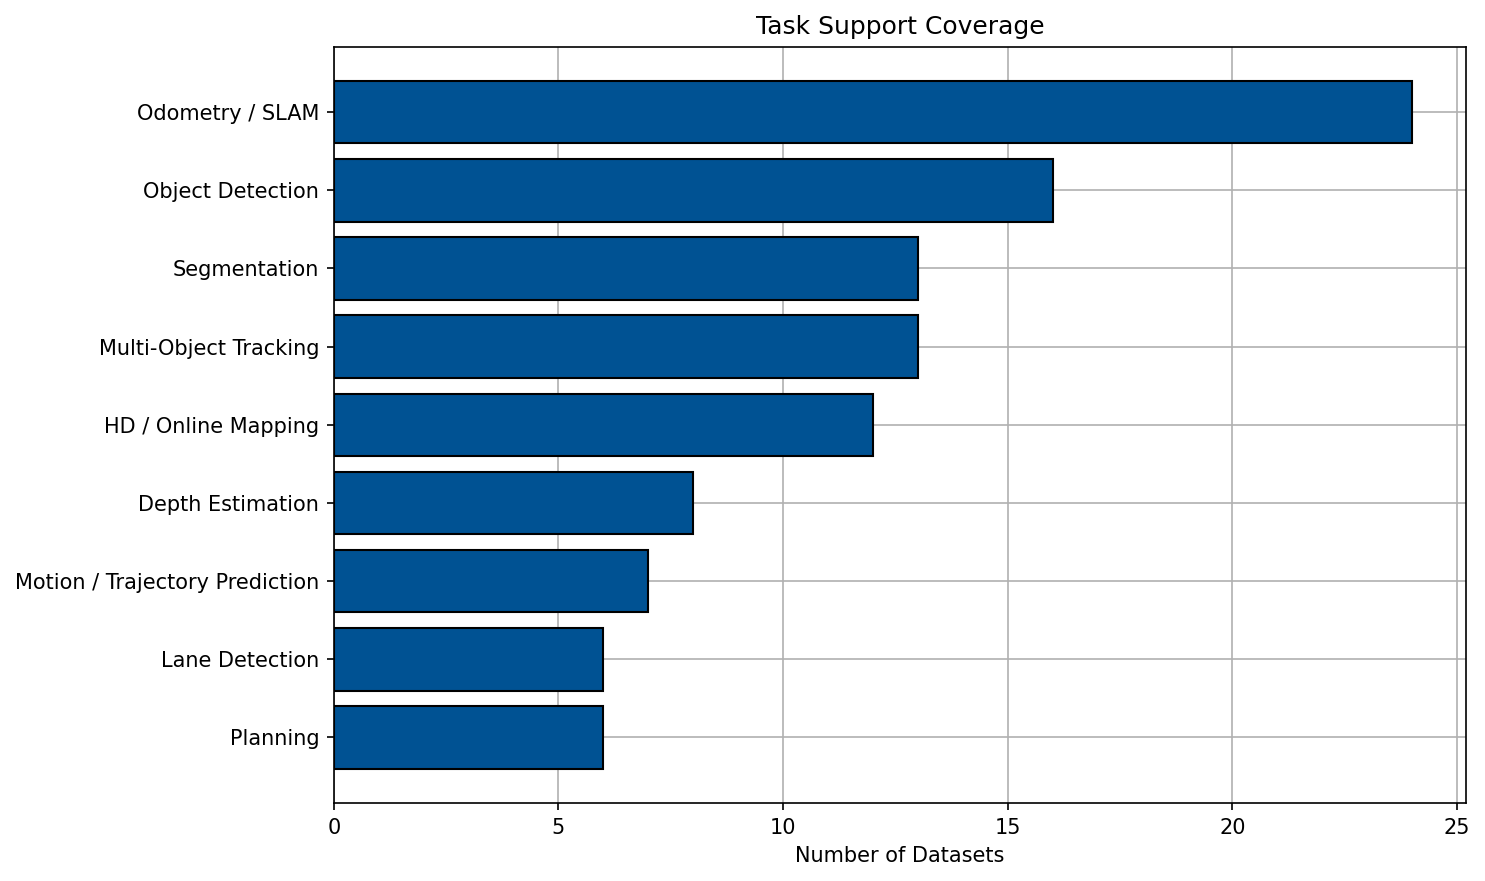
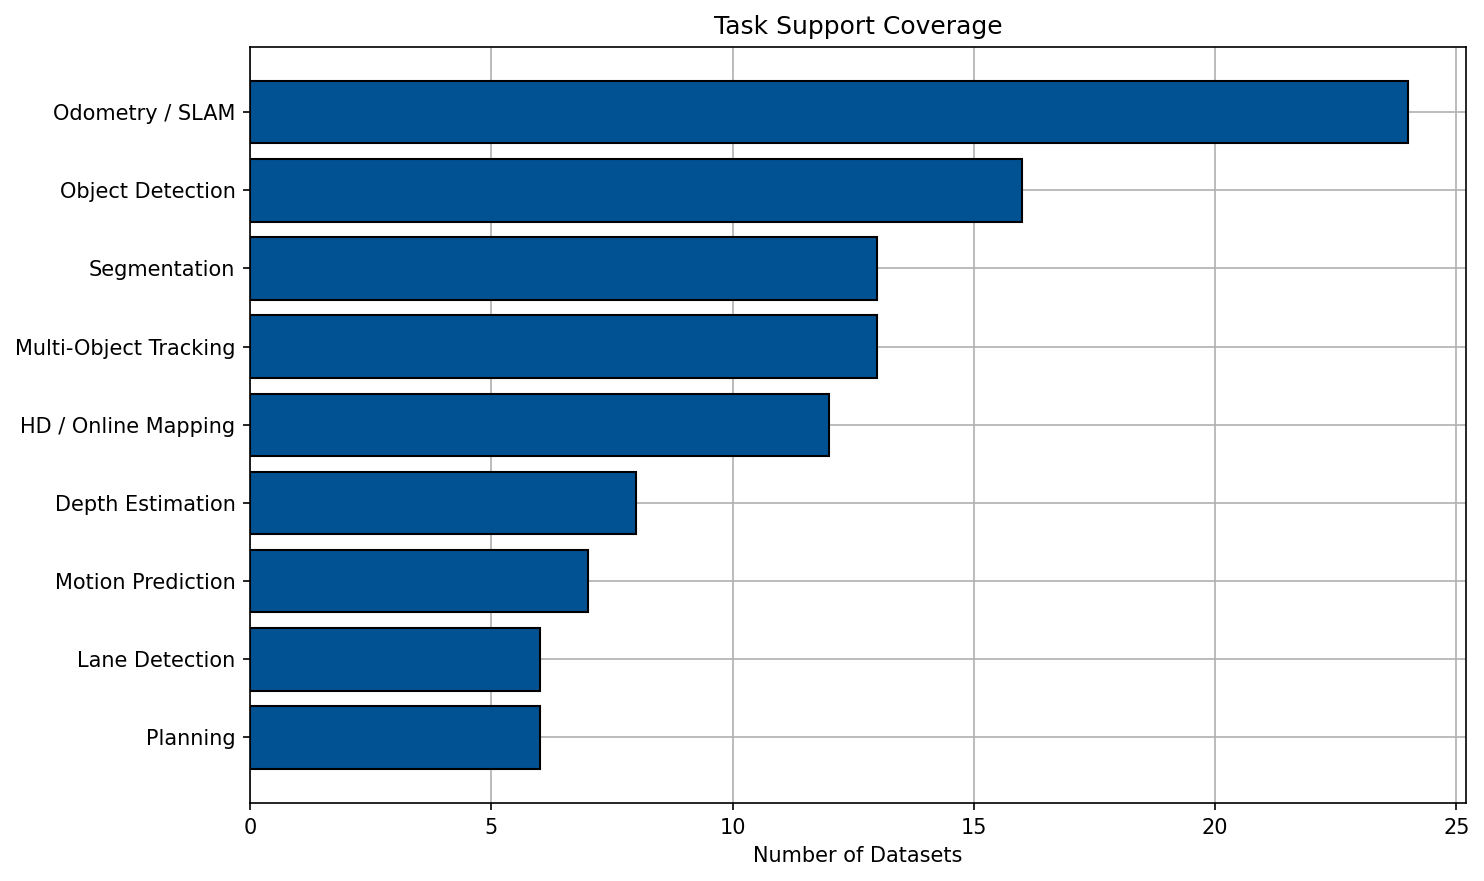
Updated code

diff --git a/dataset/filtered_dataset_analysis/00_cleaning_filtered_dataset.py b/dataset/filtered_dataset_analysis/00_cleaning_filtered_dataset.py
@@ -8,14 +8,22 @@ OUTPUT_FILE = os.path.join(BASE_DIR, 'filtered_dataset_cleaned.csv')
 # ── Load ──────────────────────────────────────────────────────────────────────
 df = pd.read_csv(INPUT_FILE)
 
-# ── Clean: numeric columns ────────────────────────────────────────────────────
-# 0 = none / not present / not annotated
-for col in ['camera', 'lidar', 'radar', 'object_categories', 'temporal']:
-    df[col] = pd.to_numeric(df[col], errors='coerce').fillna(0).astype(int)
-
 # ── Clean: citation ───────────────────────────────────────────────────────────
 # '-' means no citation data → NaN
-df['citation'] = pd.to_numeric(df['citation'], errors='coerce')
+df['Citation'] = pd.to_numeric(df['Citation'], errors='coerce')
+
+# ── Clean: numeric count columns ─────────────────────────────────────────────
+# 0 = none / not present
+for col in ['camera', 'lidar', 'radar', 'object_categories']:
+    df[col] = pd.to_numeric(df[col], errors='coerce').fillna(0).astype(int)
+
+# ── Clean: total_duration ─────────────────────────────────────────────────────
+# Keep as float, NaN = not documented
+df['total_duration'] = pd.to_numeric(df['total_duration'], errors='coerce')
+
+# ── Clean: can_bus → 1/0 ─────────────────────────────────────────────────────
+# 1 = Yes, 0 = No
+df['can_bus'] = df['can_bus'].map({'Yes': 1, 'No': 0})
 
 # ── Clean: weather ────────────────────────────────────────────────────────────
 # 0 and '0' mean unknown/not stated → 'Unknown'
@@ -27,12 +35,46 @@ df['weather'] = df['weather'].replace({'0': 'Unknown', 'nan': 'Unknown'})
 df['lidar_beam'] = df['lidar_beam'].astype(str).str.strip()
 df['lidar_beam'] = df['lidar_beam'].replace({'nan': '0'})
 
+# ── Clean: imu_freq ───────────────────────────────────────────────────────────
+# Keep as string — multi-value entries like '100; 10' parsed per chart
+df['imu_freq'] = df['imu_freq'].astype(str).str.strip()
+df['imu_freq'] = df['imu_freq'].replace({'nan': '0'})
+
+# ── Clean: imu_grade ──────────────────────────────────────────────────────────
+# Keep as string — multi-value entries like 'Tactical; Industrial' parsed per chart
+df['imu_grade'] = df['imu_grade'].astype(str).str.strip()
+df['imu_grade'] = df['imu_grade'].replace({'nan': 'Unknown'})
+
+# ── Clean: gps_gnss_freq ──────────────────────────────────────────────────────
+# Strip trailing spaces, keep as string — multi-value entries parsed per chart
+df['gps_gnss_freq'] = df['gps_gnss_freq'].astype(str).str.strip()
+df['gps_gnss_freq'] = df['gps_gnss_freq'].replace({'nan': '0'})
+
+# ── Clean: gps_type ───────────────────────────────────────────────────────────
+# Keep as string — '-' means not documented
+df['gps_type'] = df['gps_type'].astype(str).str.strip()
+df['gps_type'] = df['gps_type'].replace({'nan': 'Unknown', '-': 'Unknown'})
+
+# ── Clean: totd (time of day) ─────────────────────────────────────────────────
+# Keep as string — 'Day' or 'Day; Night'
+df['totd'] = df['totd'].astype(str).str.strip()
+
+# ── Clean: road_type ─────────────────────────────────────────────────────────
+# Keep as string — semicolon-separated categories parsed per chart
+df['road_type'] = df['road_type'].astype(str).str.strip()
+
 # ── Clean: task columns → ensure int ─────────────────────────────────────────
 # 1 = supported, 0 = not supported
 task_cols = [
-    'object_detection', 'multi_object_tracking', 'segmentation',
-    'depth_estimation', 'odometry_slam', 'prediction',
-    'planning', 'mapping', 'lane_detection',
+    'Object Detection (2D / 3D)',
+    'Multi-Object Tracking (2D / 3D)',
+    'Segmentation (Semantic / Instance / Panoptic / 3D Point Cloud)',
+    'Depth Estimation',
+    'Odometry /SLAM',
+    'Motion / Trajectory Prediction',
+    'Planning (Behavior / Motion)',
+    'HD / Online Mapping',
+    'Lane Detection',
 ]
 for col in task_cols:
     df[col] = pd.to_numeric(df[col], errors='coerce').fillna(0).astype(int)
@@ -42,4 +84,5 @@ df.to_csv(OUTPUT_FILE, index=False)
 print(f'Cleaned CSV saved → {OUTPUT_FILE}')
 print(f'Shape: {df.shape[0]} rows x {df.shape[1]} columns')
 print(f'\nNaN check:')
-print(df[['camera', 'lidar', 'radar', 'object_categories', 'temporal'] + task_cols].isna().sum())
+check_cols = ['camera', 'lidar', 'radar', 'object_categories', 'can_bus'] + task_cols
+print(df[check_cols].isna().sum())

diff --git a/dataset/filtered_dataset_analysis/04_task_support.py b/dataset/filtered_dataset_analysis/04_task_support.py
@@ -8,15 +8,15 @@ BASE_DIR = os.path.dirname(os.path.abspath(__file__))
 df = pd.read_csv(os.path.join(BASE_DIR, 'filtered_dataset_cleaned.csv'))
 
 task_cols = {
-    'object_detection':       'Object Detection',
-    'multi_object_tracking':  'Multi-Object Tracking',
-    'segmentation':           'Segmentation',
-    'depth_estimation':       'Depth Estimation',
-    'odometry_slam':          'Odometry / SLAM',
-    'prediction':             'Motion / Trajectory Prediction',
-    'planning':               'Planning',
-    'mapping':                'HD / Online Mapping',
-    'lane_detection':         'Lane Detection',
+    'Object Detection (2D / 3D)':                                      'Object Detection',
+    'Multi-Object Tracking (2D / 3D)':                                 'Multi-Object Tracking',
+    'Segmentation (Semantic / Instance / Panoptic / 3D Point Cloud)':  'Segmentation',
+    'Depth Estimation':                                                 'Depth Estimation',
+    'Odometry /SLAM':                                                   'Odometry / SLAM',
+    'Motion / Trajectory Prediction':                                   'Motion Prediction',
+    'Planning (Behavior / Motion)':                                     'Planning',
+    'HD / Online Mapping':                                              'HD / Online Mapping',
+    'Lane Detection':                                                   'Lane Detection',
 }
 
 counts = {label: df[col].sum() for col, label in task_cols.items()}

diff --git a/dataset/filtered_dataset_analysis/08b_zoomed_citation.py b/dataset/filtered_dataset_analysis/08b_zoomed_citation.py
@@ -6,14 +6,13 @@ from tum_colors import TUM_SECONDARY
 
 BASE_DIR = os.path.dirname(os.path.abspath(__file__))
 df = pd.read_csv(os.path.join(BASE_DIR, 'filtered_dataset_cleaned.csv'))
-df_sorted = df[['dataset', 'citation']].dropna().sort_values('citation')
+df_sorted = df[['dataset', 'Citation']].dropna().sort_values('Citation')
 
-# Exclude top 4 dominant datasets for readability
 EXCLUDE = {'KITTI', 'nuScenes', 'Waymo Open Dataset', 'BDD100K (Berkley Deep Drive 100k)', 'Oxford RobotCar', 'KITTI-360'}
 df_zoom = df_sorted[~df_sorted['dataset'].isin(EXCLUDE)]
 
 plt.figure(figsize=(15, 10))
-plt.barh(df_zoom['dataset'], df_zoom['citation'],
+plt.barh(df_zoom['dataset'], df_zoom['Citation'],
          edgecolor='black', color=TUM_SECONDARY['blue2'])
 plt.xlim(0, 700)
 plt.title('Citation Count per Dataset (Excluding Top 6, Zoomed 0–700)')

diff --git a/dataset/filtered_dataset_analysis/08a_full_citation.py b/dataset/filtered_dataset_analysis/08a_full_citation.py
@@ -6,10 +6,10 @@ from tum_colors import TUM_SECONDARY
 
 BASE_DIR = os.path.dirname(os.path.abspath(__file__))
 df = pd.read_csv(os.path.join(BASE_DIR, 'filtered_dataset_cleaned.csv'))
-df_sorted = df[['dataset', 'citation']].dropna().sort_values('citation')
+df_sorted = df[['dataset', 'Citation']].dropna().sort_values('Citation')
 
 plt.figure(figsize=(15, 10))
-plt.barh(df_sorted['dataset'], df_sorted['citation'],
+plt.barh(df_sorted['dataset'], df_sorted['Citation'],
          edgecolor='black', color=TUM_SECONDARY['blue2'])
 plt.xlim(0, 14000)
 plt.title('Citation Count per Dataset')

diff --git a/dataset/filtered_dataset_analysis/05_time_of_day.py b/dataset/filtered_dataset_analysis/05_time_of_day.py
@@ -7,7 +7,7 @@ from tum_colors import TUM_SECONDARY
 BASE_DIR = os.path.dirname(os.path.abspath(__file__))
 df = pd.read_csv(os.path.join(BASE_DIR, 'filtered_dataset_cleaned.csv'))
 
-counts = df['time_of_day'].value_counts()
+counts = df['totd'].value_counts()
 label_map = {'Day': 'Day', 'Day; Night': 'Day & Night'}
 labels = [label_map.get(l, l) for l in counts.index]
 pie_colors = [TUM_SECONDARY['blue2'], TUM_SECONDARY['light_gray']]
